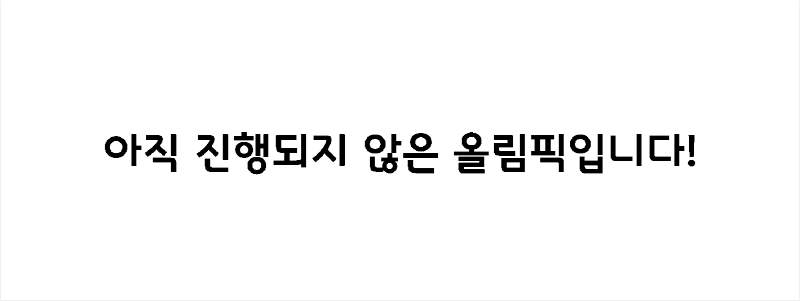
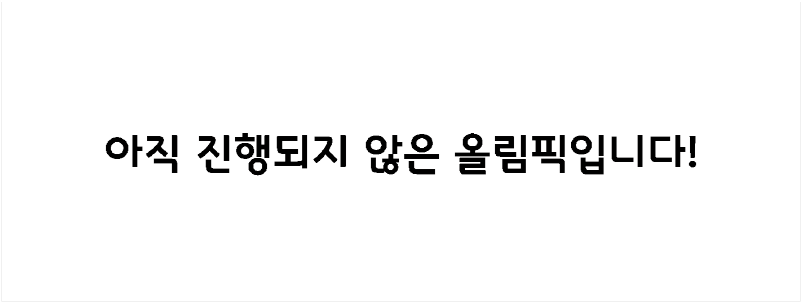
notyet

Changed region(s): [[0.125, 0.4485, 0.4375, 0.5681], [0.5938, 0.4485, 0.875, 0.5681], [0.5625, 0.5382, 0.6562, 0.5681]]

diff --git a/historyscene.cpp b/historyscene.cpp
@@ -142,10 +142,6 @@ void HistoryScene::drawSingleHard() {
 }
 
 void HistoryScene::drawOlympic(int index) {
-    if (index >= olympic_cnt) {
-        drawCenter(400, 420, "notyet.png");
-        return;
-    }
 
     int postech_x = 50;
     int kaist_x = 50;
@@ -159,6 +155,11 @@ void HistoryScene::drawOlympic(int index) {
     drawCenter(kaist_x, kaist_y, "kaist.png");
     drawCenter(unist_x, unist_y, "unist.png");
     drawCenter(gist_x, gist_y, "gist.png");
+
+    if (index >= olympic_cnt) {
+        drawCenter(400, 400, "notyet.png");
+        return;
+    }
 
     int postech_gold = getGameClass()->getOlympicData(index)->getSchoolMedal(POSTECH, GOLD);
     int postech_silver = getGameClass()->getOlympicData(index)->getSchoolMedal(POSTECH, SILVER);
